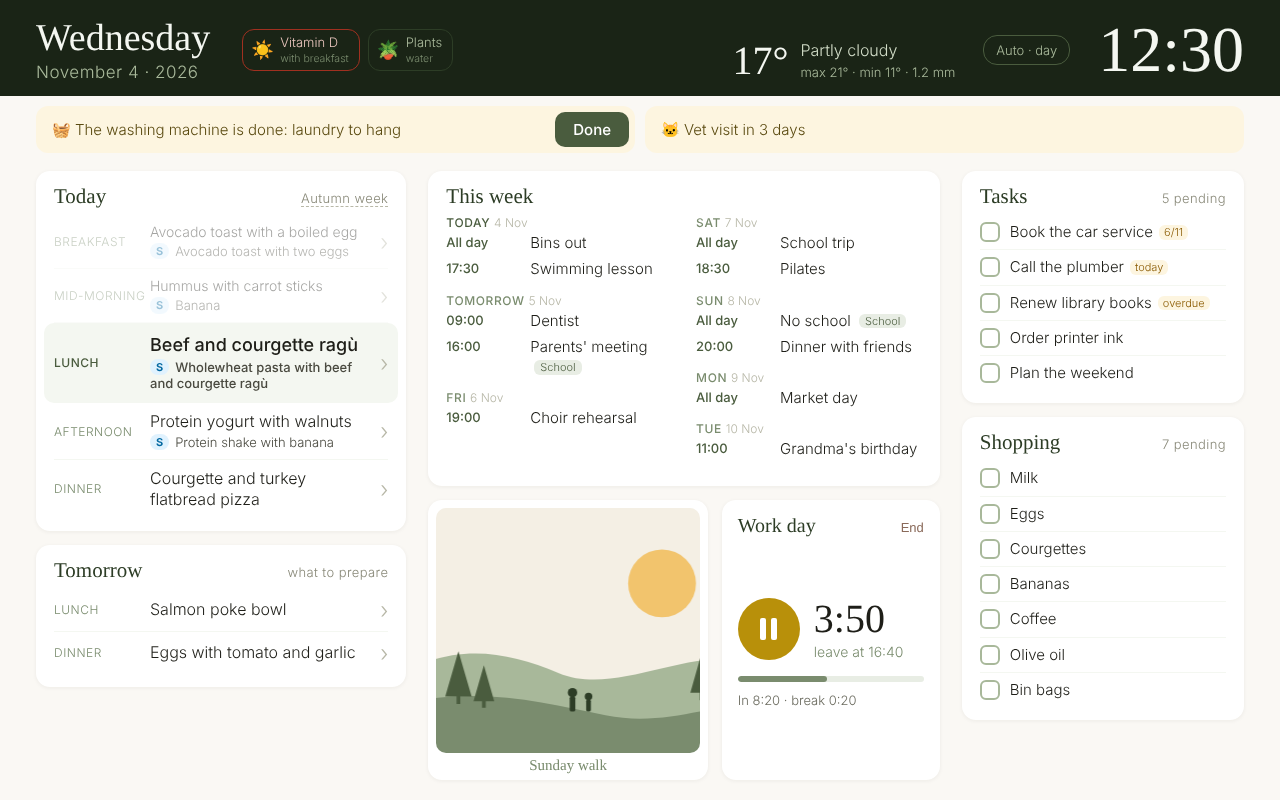
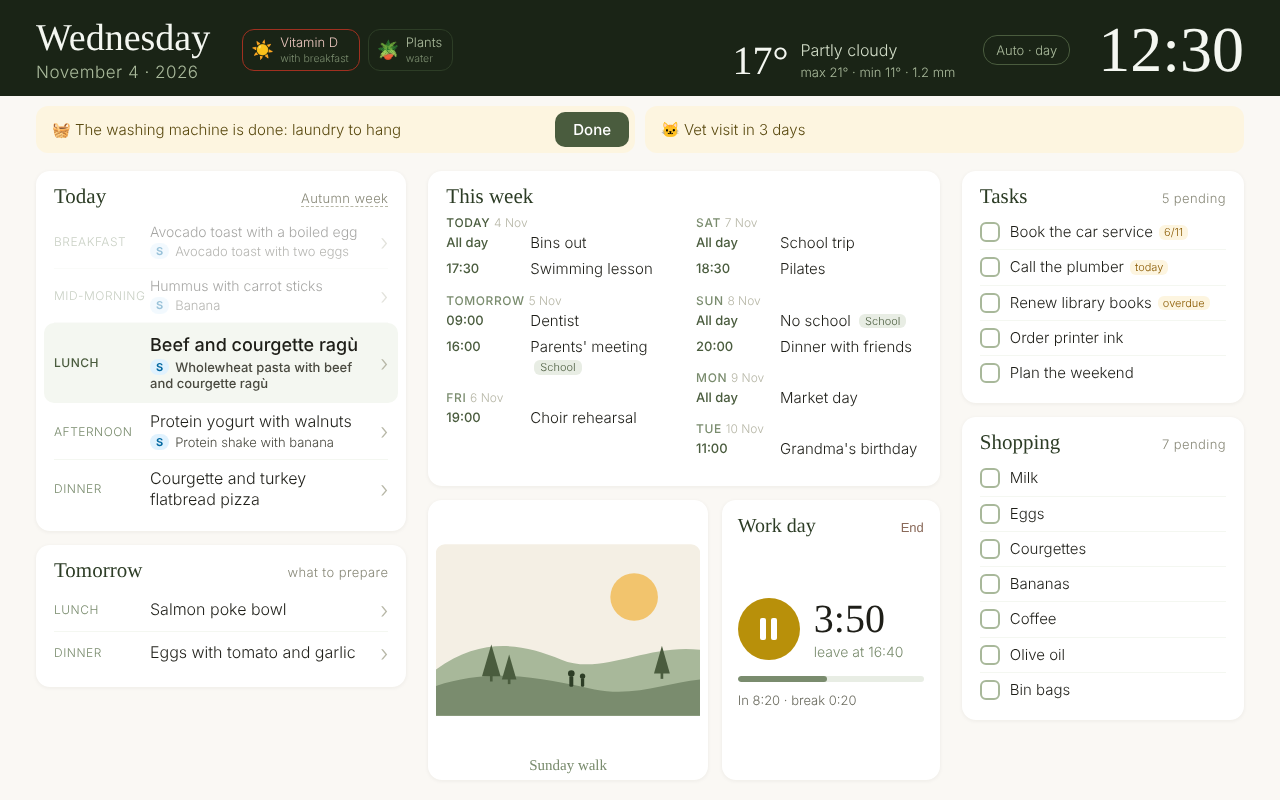
Panel: show the whole photo next to the work timer (centred, not cropped)
Claude-Session: https://claude.ai/code/session_01XFa5nRVnwC7EDj78HJYt1f

Changed region(s): [[0.3438, 0.7812, 0.5625, 0.9688], [0.3438, 0.625, 0.5625, 0.7812]]

diff --git a/panel/styles.css b/panel/styles.css
@@ -375,7 +375,7 @@ html.night .cv-seg span.on { background: #2d3726; color: #a8b89a; }
 /* In the narrow slot the photo fills its card and the work timer is centred vertically;
    "End" sits in the header instead of "week ›" so everything fits at 672 px. */
 .mid-bottom > .card-photo { padding: 8px 8px 6px; }
-.mid-bottom .photo-img { -webkit-background-size: cover; background-size: cover; background-position: center 40%; border-radius: 10px; }
+.mid-bottom .photo-img { -webkit-background-size: contain; background-size: contain; background-position: center center; }
 .card-work { overflow: hidden; }
 .wk-row { margin-top: auto; }
 .wk-state { margin-bottom: auto; white-space: nowrap; overflow: hidden; text-overflow: ellipsis; }
